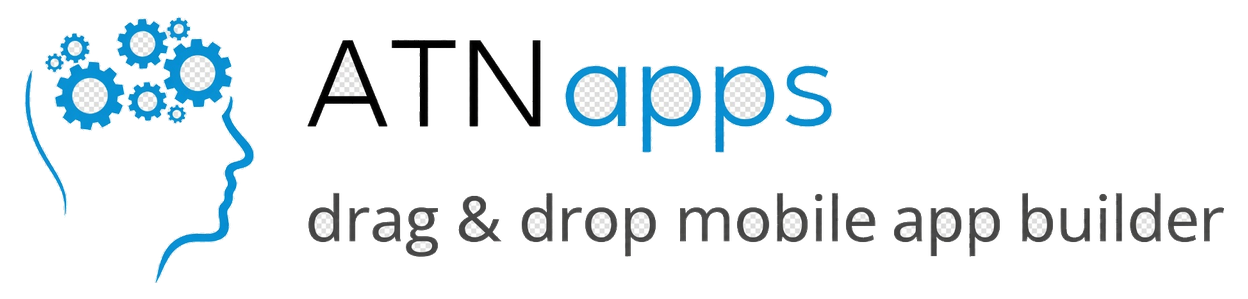
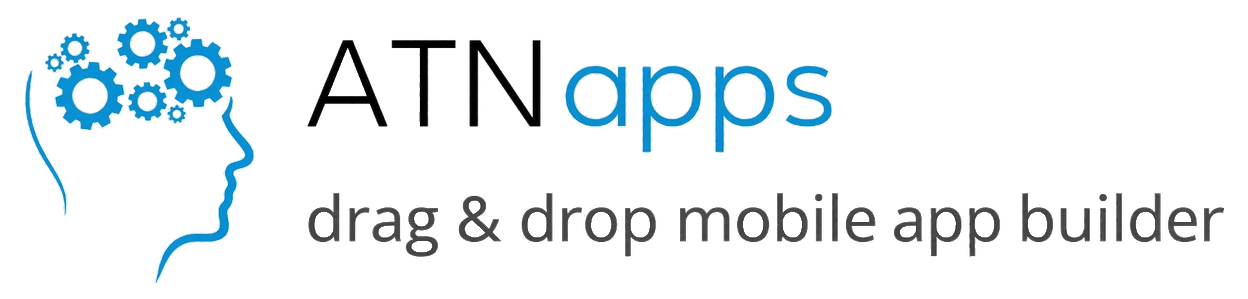
Changes

diff --git a/src/components/site/TrustLogoStrip.tsx b/src/components/site/TrustLogoStrip.tsx
@@ -1,11 +1,11 @@
 const companies = [
-  { name: "ATNapps", src: "/media/trusted-companies/atnapps.webp" },
-  { name: "TaxiVA Call 8802", src: "/media/trusted-companies/taxiva.webp" },
-  { name: "eSIMnow", src: "/media/trusted-companies/esimnow.webp" },
-  { name: "ATN Technology", src: "/media/trusted-companies/atn-technology.webp" },
-  { name: "MyMobile Unlocking", src: "/media/trusted-companies/mymobile-unlocking.webp" },
-  { name: "Ethio Game", src: "/media/trusted-companies/ethio-game.webp" },
-  { name: "AymarPOS", src: "/media/trusted-companies/aymarpos.webp" },
+  { name: "ATNapps", src: "/media/trusted-companies/atnapps.png", alt: "ATNapps mobile app builder logo" },
+  { name: "NureMath", src: "/media/trusted-companies/nuremath.png", alt: "NureMath mathematics learning logo" },
+  { name: "MyMobile Unlocking", src: "/media/trusted-companies/mymobile-unlocking.png", alt: "MyMobile Unlocking logo" },
+  { name: "Ice Land", src: "/media/trusted-companies/ice-land.png", alt: "Ice Land ice cream logo" },
+  { name: "ATN Technology", src: "/media/trusted-companies/atn-technology.png", alt: "ATN Technology logo" },
+  { name: "Ethio Game", src: "/media/trusted-companies/ethio-game.png", alt: "Ethio Game logo" },
+  { name: "AymarPOS", src: "/media/trusted-companies/aymarpos.png", alt: "AymarPOS point-of-sale logo" },
 ];
 
 function LogoTrack({ duplicate = false }: { duplicate?: boolean }) {
@@ -15,7 +15,7 @@ function LogoTrack({ duplicate = false }: { duplicate?: boolean }) {
         <div key={company.name} className="trust-logo-item">
           <img
             src={company.src}
-            alt={`${company.name} company logo`}
+            alt={company.alt}
             title={company.name}
             width={360}
             height={112}

diff --git a/roadmap.md b/roadmap.md
@@ -228,3 +228,8 @@
 - [x] Apply the selected Enterprise Indigo Tech system across the complete homepage
 - [x] Simplify the hero and operational workspace preview without changing capabilities
 - [x] Verify desktop, mobile, interactions, media, and build health
+
+## Homepage trust-logo refresh
+- [ ] Replace all seven scrolling logos with the supplied company artwork
+- [ ] Remove solid and checkerboard backgrounds while preserving logo details
+- [ ] Verify descriptive alt text, desktop/mobile presentation, and build health
